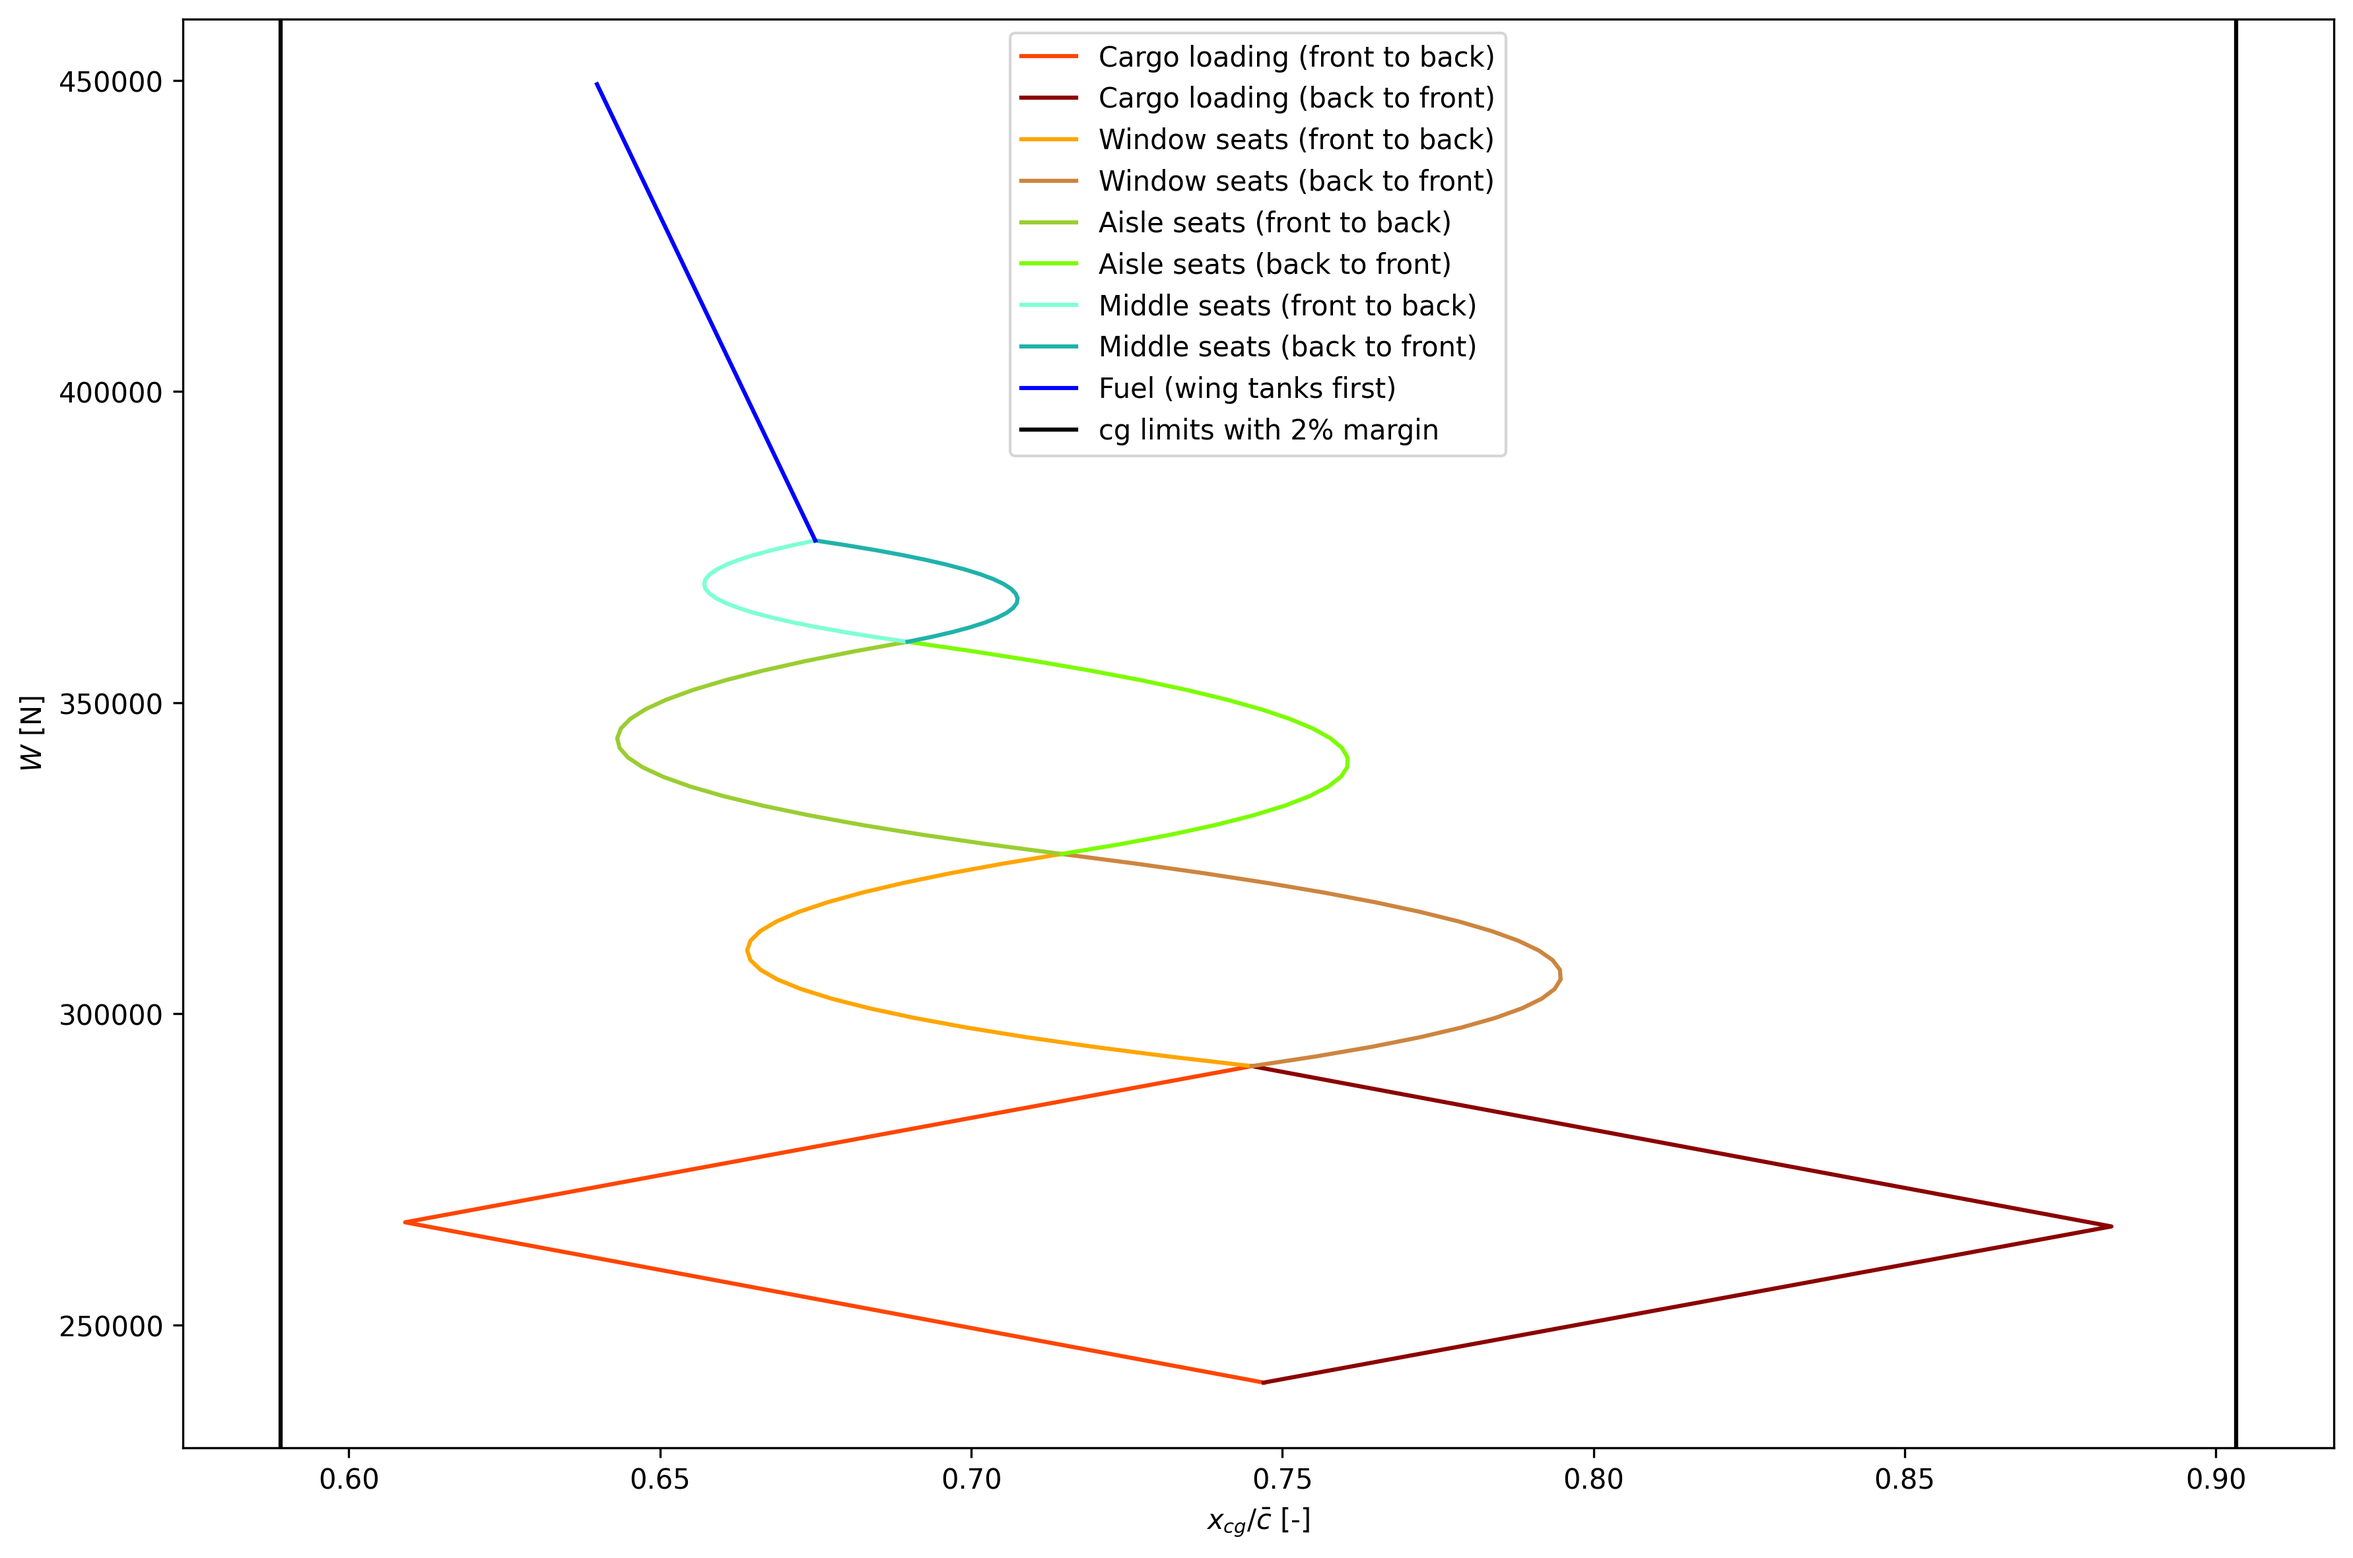
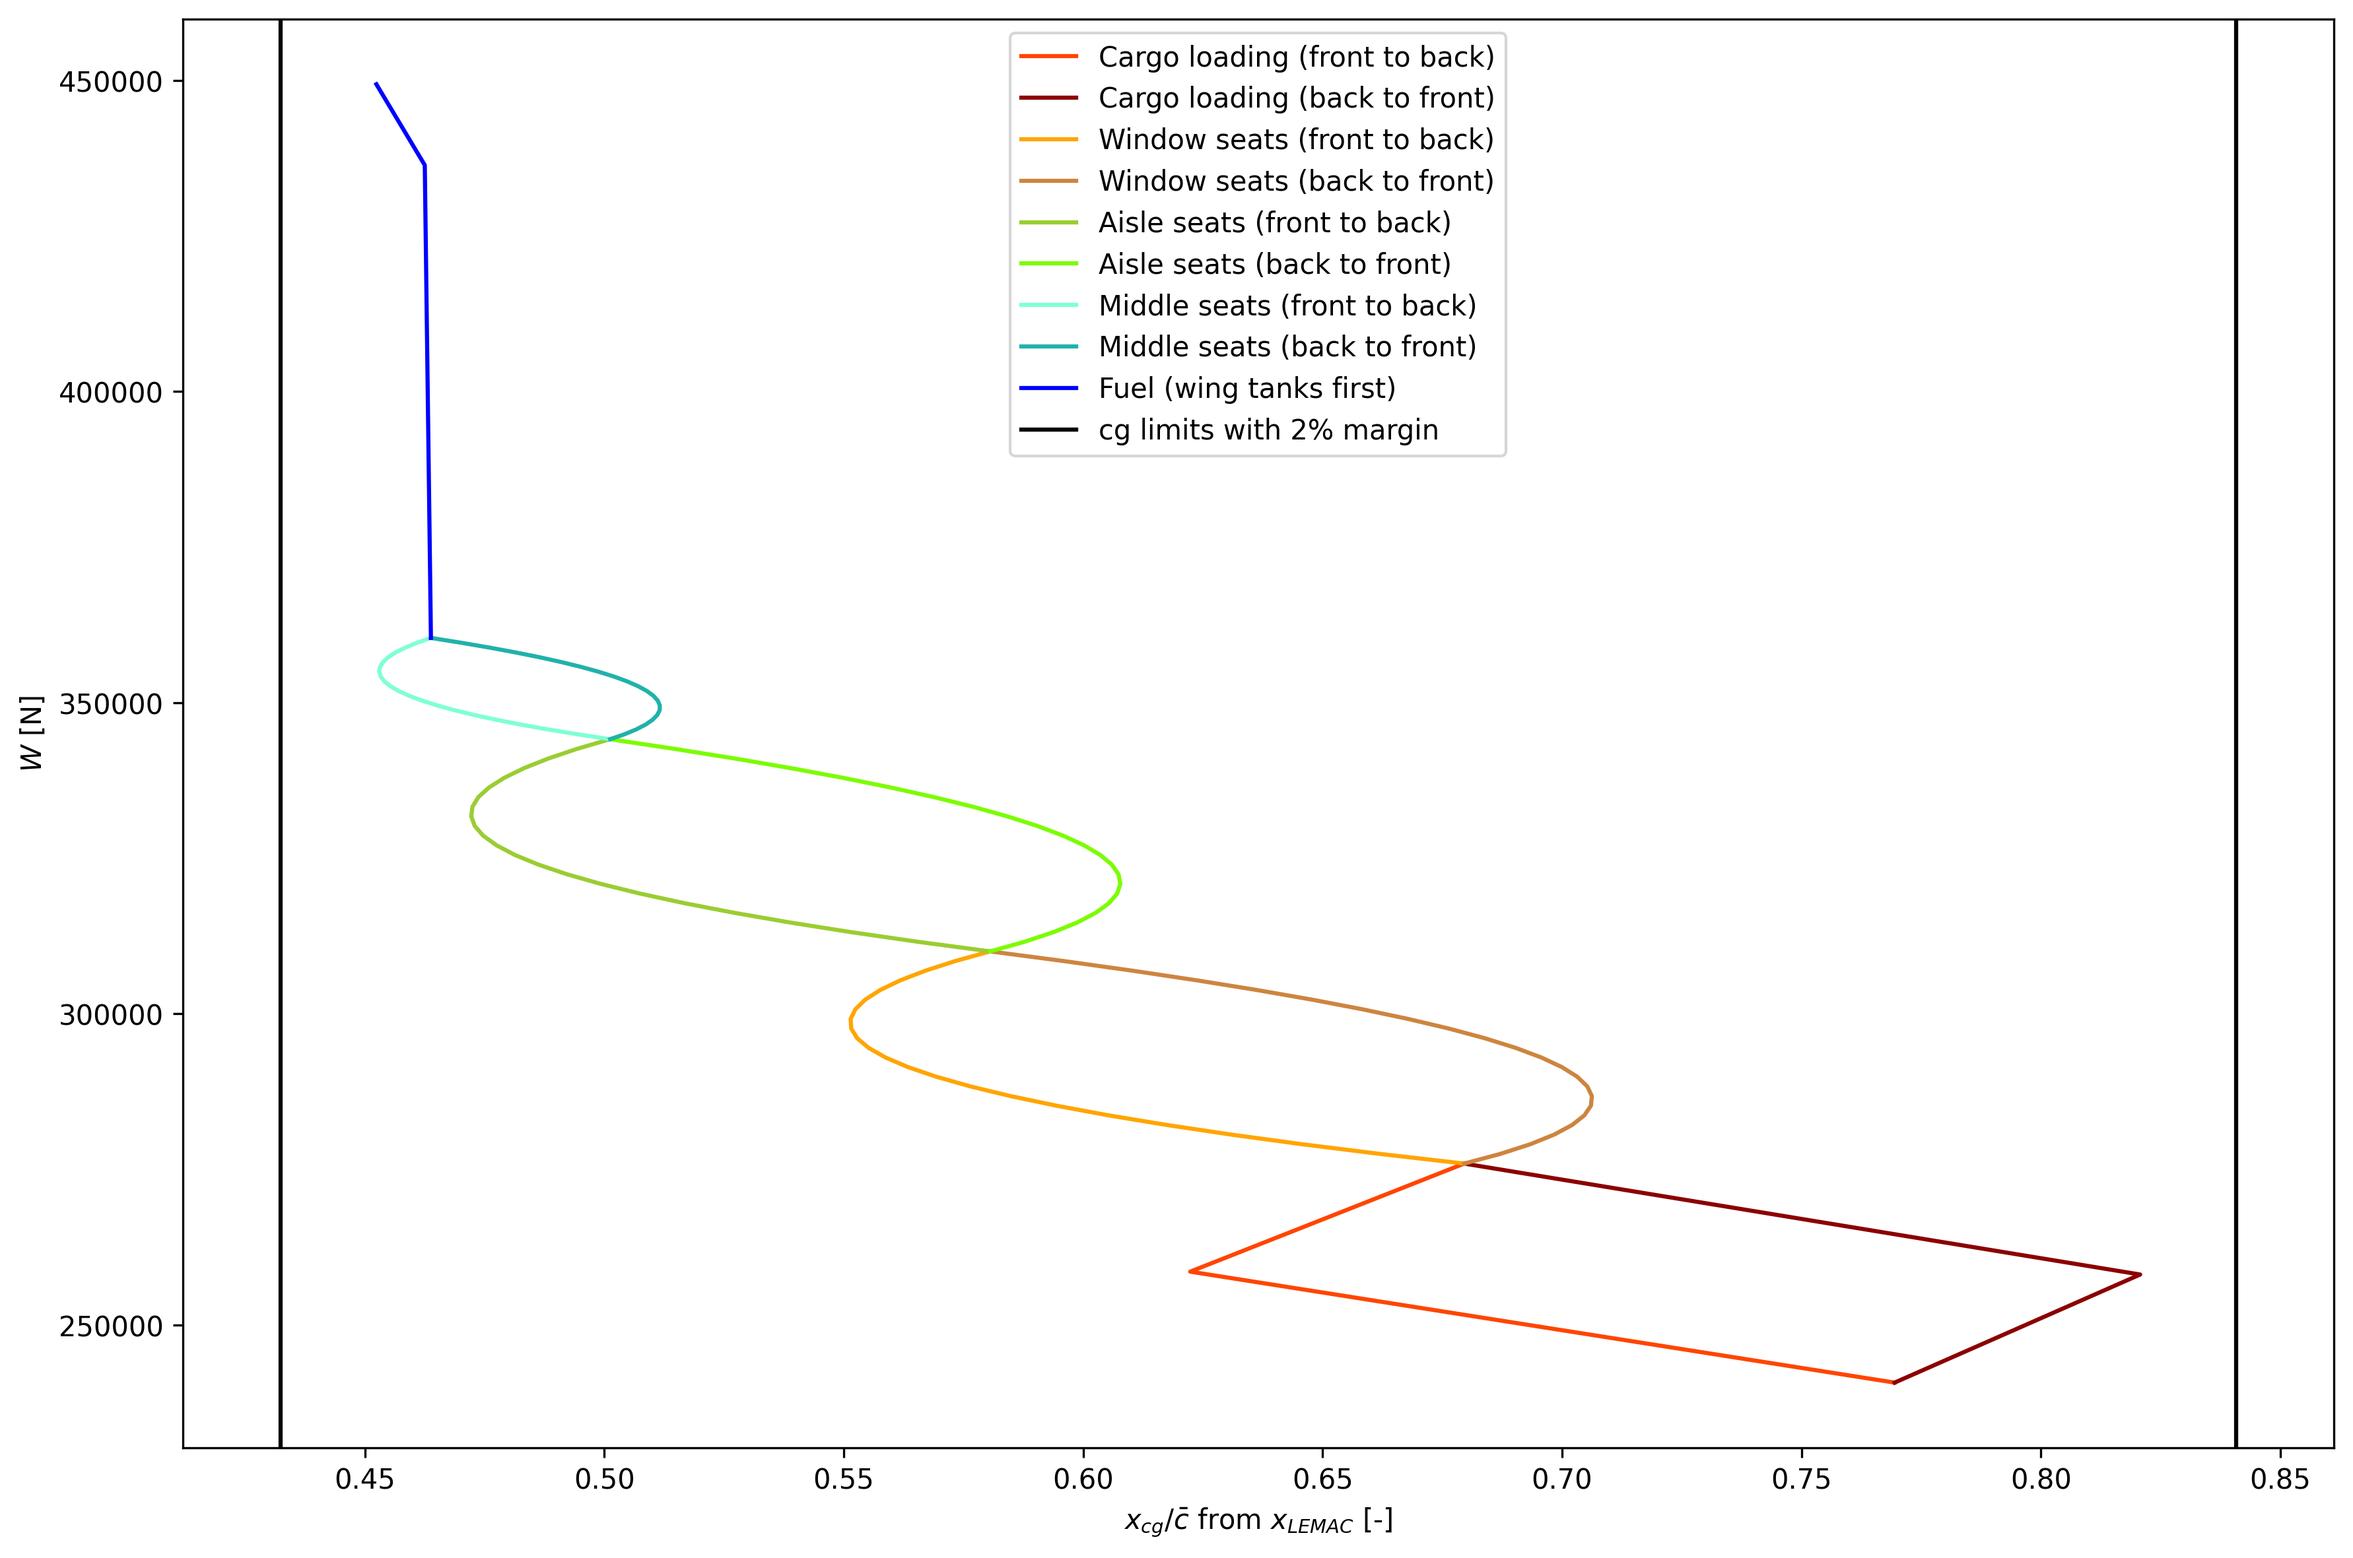
more changes...

diff --git a/loading_diagram.py b/loading_diagram.py
@@ -3,22 +3,29 @@ from constants import G
 import matplotlib.pyplot as plt
 
 
-def add_cargo(ax, start_weight, start_cg, total_cargo, front_cargo_max_weight, front_cargo_position, back_cargo_max_weight, back_cargo_position):
+def add_cargo(ax, start_weight, start_cg, total_cargo, front_cargo_max_weight, front_cargo_position, back_cargo_max_weight, back_cargo_position, payload_weight, num_pax, pax_weight):
     if isinstance(total_cargo, (int, float)):
         if total_cargo > front_cargo_max_weight + back_cargo_max_weight:
             raise ValueError(
                 f"requested cargo load of {total_cargo / G} [kg] exceeds cargo capacity of "
                 f"{(front_cargo_max_weight + back_cargo_max_weight) / G} [kg]"
             )
+        if total_cargo + num_pax * pax_weight > payload_weight:
+            raise ValueError(
+                f"requested cargo load of {total_cargo / G} [kg] plus the total pax weight of "
+                f"{num_pax * pax_weight / G} exceeds the max payload weight of {payload_weight / G} [kg]"
+            )
         fraction = total_cargo / (front_cargo_max_weight + back_cargo_max_weight)  # assume balanced
     elif isinstance(total_cargo, str):
         if total_cargo != "max":
             raise ValueError(f"invalid total cargo choice {total_cargo}")
-        total_cargo = front_cargo_max_weight + back_cargo_max_weight
-        fraction = 1.0
+        total_cargo = min(front_cargo_max_weight + back_cargo_max_weight, payload_weight - num_pax * pax_weight)
+        fraction = total_cargo / (front_cargo_max_weight + back_cargo_max_weight)
     else:
         raise TypeError(f"invalid type of total cargo {type(total_cargo)}")
     
+    print(f"Loading cargo: {total_cargo/G:.2f} kg")
+    print(f"  Cargo fraction: {fraction*100:.2f} %")
     front_weights = [start_weight, start_weight + front_cargo_max_weight * fraction, start_weight + total_cargo]
     front_cgs = [
         start_cg,
@@ -132,6 +139,7 @@ def add_pax(ax, start_weight, start_cg, num_pax, pax_weight, first_row_position,
     ax.plot(cgs_aisles_back_to_front, weights_aisles, c="lawngreen", label="Aisle seats (back to front)")
     ax.plot(cgs_middle_front_to_back, weights_middle, c="aquamarine", label="Middle seats (front to back)")
     ax.plot(cgs_middle_back_to_front, weights_middle, c="lightseagreen", label="Middle seats (back to front)")
+    print(f"Added {num_pax} passengers at {pax_weight / G:.2f} [kg] each for a total weight of {num_pax * pax_weight / G:.2f} [kg]")
 
     return (
         start_weight + num_pax * pax_weight,
@@ -160,6 +168,11 @@ def add_fuel(ax, start_weight, start_cg, load_wing_tank_first, wing_tank_capacit
                 f"fuel load of {fuel_load / G} [kg] is beyond total tank capacity of "
                 f"{(wing_tank_capacity + center_tank_capacity) / G} [kg]"
             )
+        if start_weight + fuel_load > mtow:
+            raise ValueError(
+                f"fuel load of {fuel_load / G} [kg] plus ZFW of {start_weight / G} [kg] is beyond the MTOW of "
+                f"{mtow / G} [kg]"
+            )
 
     if load_wing_tank_first:
         wing_load = min(wing_tank_capacity, fuel_load)
@@ -179,6 +192,10 @@ def add_fuel(ax, start_weight, start_cg, load_wing_tank_first, wing_tank_capacit
             (start_weight * start_cg + center_load * center_tank_position) / (start_weight + center_load),
             (start_weight * start_cg + center_load * center_tank_position + wing_load * wing_tank_position) / (start_weight + fuel_load),
         ]
+    print(f"Loading {fuel_load / G:.2f} [kg] of fuel into {'wing' if load_wing_tank_first else 'center'} tank first")
+    print(f"  Wing tank load: {wing_load / G:.2f} [kg]")
+    print(f"  Center tank load: {center_load / G:.2f} [kg]")
+    print(f"  Fuel tank fill fraction: {fuel_load / (center_tank_capacity + wing_tank_capacity) * 100:.2f} %")
     
     ax.plot(cgs, weights, c="blue", label=f"Fuel ({'wing tanks' if load_wing_tank_first else 'center tank'} first)")
 
@@ -186,10 +203,10 @@ def add_fuel(ax, start_weight, start_cg, load_wing_tank_first, wing_tank_capacit
 
 
 def generate_loading_diagram(
-    filename, show_legend, cargo_first, OEW_kg, xcg_oew, x_LEMAC_m, MAC_m, total_cargo_kg, 
+    filename, show_legend, cargo_first, x_LEMAC_m, MAC_m, xcg_oew, OEW_kg, mtow_kg, max_payload_kg, total_cargo_kg, 
     front_cargo_max_weight_kg, front_cargo_stations_m, back_cargo_max_weight_kg, back_cargo_stations_m, num_pax,
     pax_kg, first_row_position_m, seat_pitch_in, load_wing_tank_first, wing_tank_capacity_kg, center_tank_capacity_kg, 
-    wing_tank_position_mac, center_tank_position_mac, mtow_kg, fuel_load_kg
+    wing_tank_position_mac, center_tank_position_mac, fuel_load_kg
 ):
     fig, ax = plt.subplots(figsize=(12, 8))
     OEW = OEW_kg * G  # convert to [N]
@@ -205,6 +222,9 @@ def generate_loading_diagram(
             ((front_cargo_stations_m[0] + front_cargo_stations_m[1])/2 - x_LEMAC_m) / MAC_m,
             back_cargo_max_weight_kg * G,
             ((back_cargo_stations_m[0] + back_cargo_stations_m[1])/2 - x_LEMAC_m) / MAC_m,
+            max_payload_kg * G,
+            num_pax,
+            pax_kg * G,
         )
         after_cargo_and_pax_weight, after_cargo_and_pax_cg, pax_cgs = add_pax(
             ax,
@@ -234,6 +254,9 @@ def generate_loading_diagram(
             ((front_cargo_stations_m[0] + front_cargo_stations_m[1])/2 - x_LEMAC_m) / MAC_m,
             back_cargo_max_weight_kg * G,
             ((back_cargo_stations_m[0] + back_cargo_stations_m[1])/2 - x_LEMAC_m) / MAC_m,
+            max_payload_kg * G,
+            num_pax,
+            pax_kg * G,
         )
     
     after_fuel_weight, after_fuel_cg, fuel_cgs = add_fuel(
@@ -246,7 +269,7 @@ def generate_loading_diagram(
         wing_tank_position_mac,
         center_tank_position_mac,
         mtow_kg * G,
-        fuel_load_kg * G if isinstance(fuel_load_kg, (int, float)) else fuel_load_kg
+        fuel_load_kg * G if isinstance(fuel_load_kg, (int, float)) else fuel_load_kg,
     )
     
     # final cg bounds
@@ -256,10 +279,12 @@ def generate_loading_diagram(
     upper_limit = max(all_cgs) + cg_margin
     ax.axvline(lower_limit, c="k", label=f"cg limits with {cg_margin * 100:.0f}% margin")
     ax.axvline(upper_limit, c="k")  # yes this has no label, but they're both black lines
+    print(f"LOWER c.g. LIMIT: {lower_limit*100:.2f} % of MAC from LEMAC")
+    print(f"UPPER c.g. LIMIT: {upper_limit*100:.2f} % of MAC from LEMAC")
 
     if show_legend:
         ax.legend()
-    ax.set_xlabel(r"$x_{cg}/\bar{c}$ [-]")
+    ax.set_xlabel(r"$x_{cg}/\bar{c}$ from $x_{LEMAC}$ [-]")
     ax.set_ylabel(r"$W$ [N]")
     fig.tight_layout()
     fig.savefig(filename, dpi=300, bbox_inches="tight")
@@ -271,11 +296,13 @@ if __name__ == "__main__":
         "filename": "full_payload_config",          # filename to save to
         "show_legend": True,                        # whether to display the legend
         "cargo_first": True,                        # whether to load cargo first (True) or passengers first (False)
-        "x_LEMAC_m": 13.3,                        # position of the MAC from the nose, in [m]
-        "MAC_m": 3.79857,                             # MAC, in [m]
+        "x_LEMAC_m": 15.8745,                       # position of the MAC from the nose, in [m]
+        "MAC_m": 3.79857,                           # MAC, in [m]
+        "xcg_oew": 0.76946,                         # xcg of the OEW, in % MAC [-]
         "OEW_kg": 24541,                            # OEW, in [kg]
-        "xcg_oew": 0.747119,                             # xcg of the OEW, in % MAC [-]
-        "total_cargo_kg": "max",                    # either the total cargo in [kg], or "max" to fully fill all cargo holds
+        "mtow_kg": 45810,                           # MTOW, in [kg]
+        "max_payload_kg": 12199,                    # max payload (pax + cargo) weight, in [kg]
+        "total_cargo_kg": "max",                    # either the total cargo in [kg], or "max" to fill up to limiting factor (capacity or max payload)
         "front_cargo_max_weight_kg": 1239 + 1387,   # max weights of the front compartment (hold 1 and 2) in [kg]
         "front_cargo_stations_m": (6.920, 14.466),  # the front and rear stations of the front compartments in [m], from the nose
         "back_cargo_max_weight_kg": 1576 + 982,     # iterable of the max weights of the 3 rear compartments in [kg]
@@ -285,11 +312,10 @@ if __name__ == "__main__":
         "first_row_position_m": (8 * 32 * 0.0254),  # position of the first row, from the nose in [m]
         "seat_pitch_in": 32,                        # seat pitch, in [in]
         "load_wing_tank_first": True,               # whether to load the wing tank first (True), or the center tank (False)
-        "wing_tank_capacity_kg": 7733,              # capacity of both wing tanks, in [kg] of fuel
+        "wing_tank_capacity_kg": 7744,              # capacity of both wing tanks, in [kg] of fuel
         "center_tank_capacity_kg": 2512,            # capacity of the center tank, in [kg] of fuel
-        "wing_tank_position_mac": 0.46,              # wing tank cg, in % MAC from LEMAC [-]
-        "center_tank_position_mac": 0.22,            # center tank cg, in % MAC from LEMAC [-]
-        "mtow_kg": 45810,                           # MTOW, in [kg]
+        "wing_tank_position_mac": 0.4564,           # wing tank cg, in % MAC from LEMAC [-]
+        "center_tank_position_mac": 0.1133,         # center tank cg, in % MAC from LEMAC [-]
         "fuel_load_kg": "max",                      # total fuel load, in [kg], or "max" to load up to limiting factor (MTOW or tank capacity)
     }
     generate_loading_diagram(**full_payload_config)
